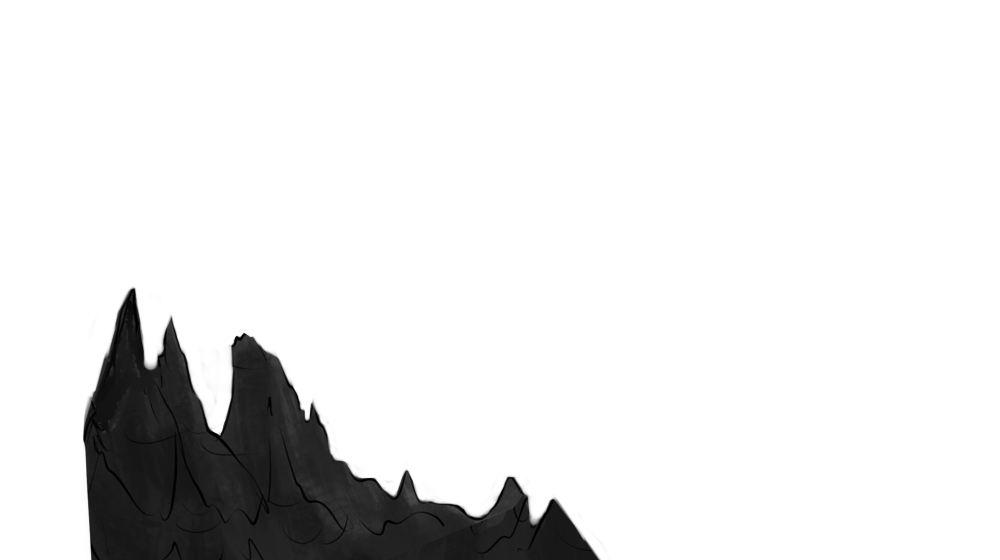
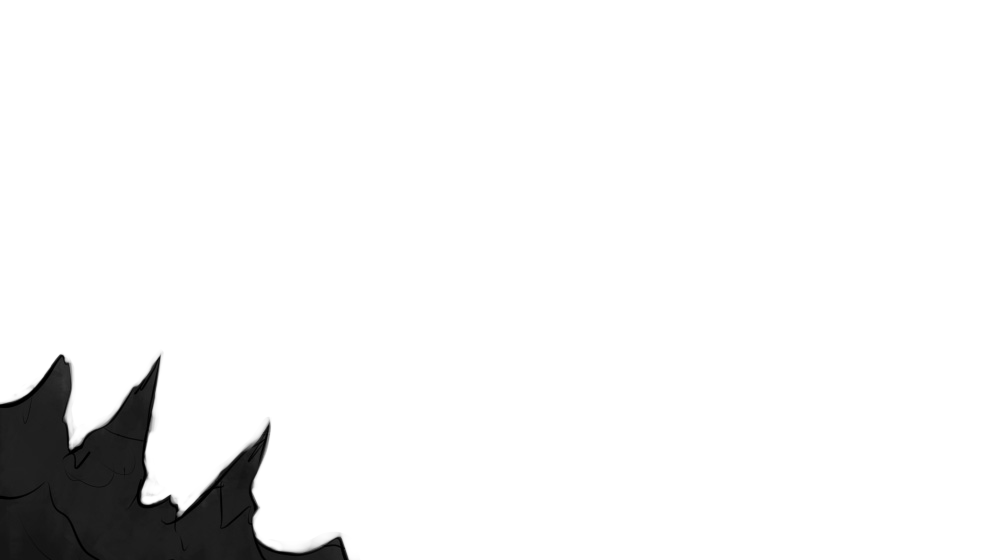
Navbar

Changed region(s): [[0.0, 0.5161, 0.62, 1.0]]

diff --git a/styles.css b/styles.css
@@ -5,26 +5,45 @@
 
 }
 
+ul.navbar {
+  list-style-type: none;
+  margin: 0;
+  padding: 0;
+  overflow: hidden;
+  background-image: linear-gradient(-90deg, #46a404, black);
+  position: relative;
+  z-index: 2;
+}
+
+li.navbar {
+  float: left;
+}
+
+li a.navbar {
+  display: block;
+  color: white;
+  text-align: center;
+  padding: 14px 16px;
+  text-decoration: none;
+}
+
+li a.navbar:hover {
+  background-color: #111;
+}
 
 .background {
 	
 	background-image: url(images/cave.png);
 	top: 0;
-	bottom: 0;
-	background-repeat: no-repeat;
-	background-size: auto;
-	opacity: 0.5;
-}
-
-.yla{
+	left: 0;
+	width: 100%;
+	height: 100%;
+	background-size: cover;
+	opacity: 0.6;
+	z-index: 1;
 	
-	position: sticky;
-	top: 0;
-	height: 60px;
-	width: auto;
-	background-image: linear-gradient(-90deg, #46a404, black);
-
 }
+
 
 .ala{
 	
@@ -34,24 +53,6 @@
 	width: 1500px;
 	background-color: red;
 
-}
-
-
-.ylalogo{
-	
-	width:85px;
-	height:70px;
-	
-	
-}
-
-.ylalogo2{
-	
-	width:150px;
-	height:40px;
-	position:absolute;
-	bottom: 16%;
-	
 }
 
 .tytto{
@@ -65,8 +66,18 @@ opacity: 0;
 
 	position: fixed;
 	bottom:0;
-	right: -70px;
+	right: -8%;
+	z-index: 4;
 	
+}
+
+
+.stone2{
+
+	position: fixed;
+	bottom:0;
+	left:  -8%;
+	z-index: 4;
 }
 
 
@@ -76,7 +87,7 @@ opacity: 0;
       position:absolute;
       bottom: 5%;
       left: 25%;
-      z-index: 2;
+      z-index: 3;
 	  width:600px;
 	  height:500px;
 	  pointer-events: none;
@@ -87,18 +98,12 @@ opacity: 0;
       position:absolute;
       bottom: 5%;
       left: 25%;
-      z-index: 1;
+      z-index: 2;
 	  width:600px;
 	  height:500px;
 	  transition: transform .7s ease-in-out;
+	  pointer-events: none;
     }
-
-.ears:hover
-	{
-	
-		transform: rotate(-10deg);
-	
-	}
 	
 	
 }

diff --git a/index.html b/index.html
@@ -9,34 +9,44 @@
 
 <body class = "body">
 
-<div style = "position: fixed;" class = "background">
-</div>
+ 
 
 <div class = "home">
 
-	<div class="yla"> 
-
-		<img class = "ylalogo", src = "images/logo.png"/>
-		<img class = "ylalogo2", src = "images/logotext.png"/>
-
-
+	
+	<div>
+	
+		<ul class = "navbar">
+			<li class = "navbar"><a class = "navbar" href="#home">Home</a></li>
+			<li class = "navbar"><a class = "navbar", href="#news">News</a></li>
+			<li class = "navbar"><a class = "navbar", href="#contact">Contact</a></li>
+			<li class = "navbar"><a class = "navbar", href="#about">About</a></li>
+		</ul>
+	
 	</div>
 	
 	<div style = position: fixed;>
+	
 	<img class = "stone", src = "images/stone1.png"/>
-	<div/>
+	<img class = "stone2", src = "images/stone2.png"/>
+	</div>
 	
 	<div> 
 		
 		<img class = "ears", src="images/ears.png"/>
 		<img class = "logo", src="images/logohead.png"/>
 
-
 	</div>
 	
-	<!-- poista myöhemmin -->
+	
+	
+
 	<img class = "tytto", src="images/tytto.png"/>
 	
+
+</div>
+
+<div style = "position: fixed;" class = "background">
 </div>
 	
 </body>
